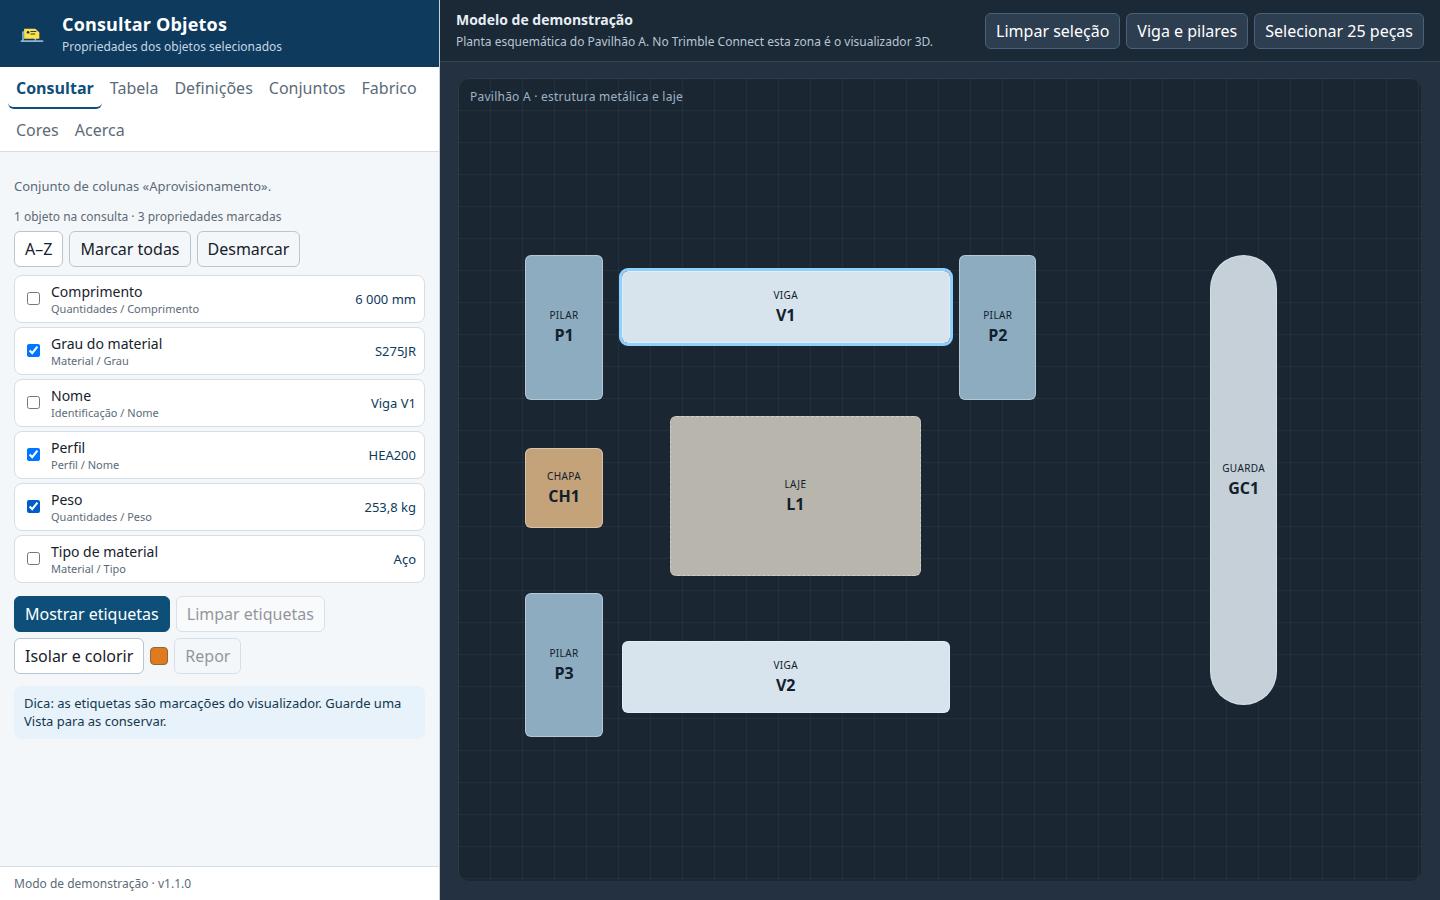
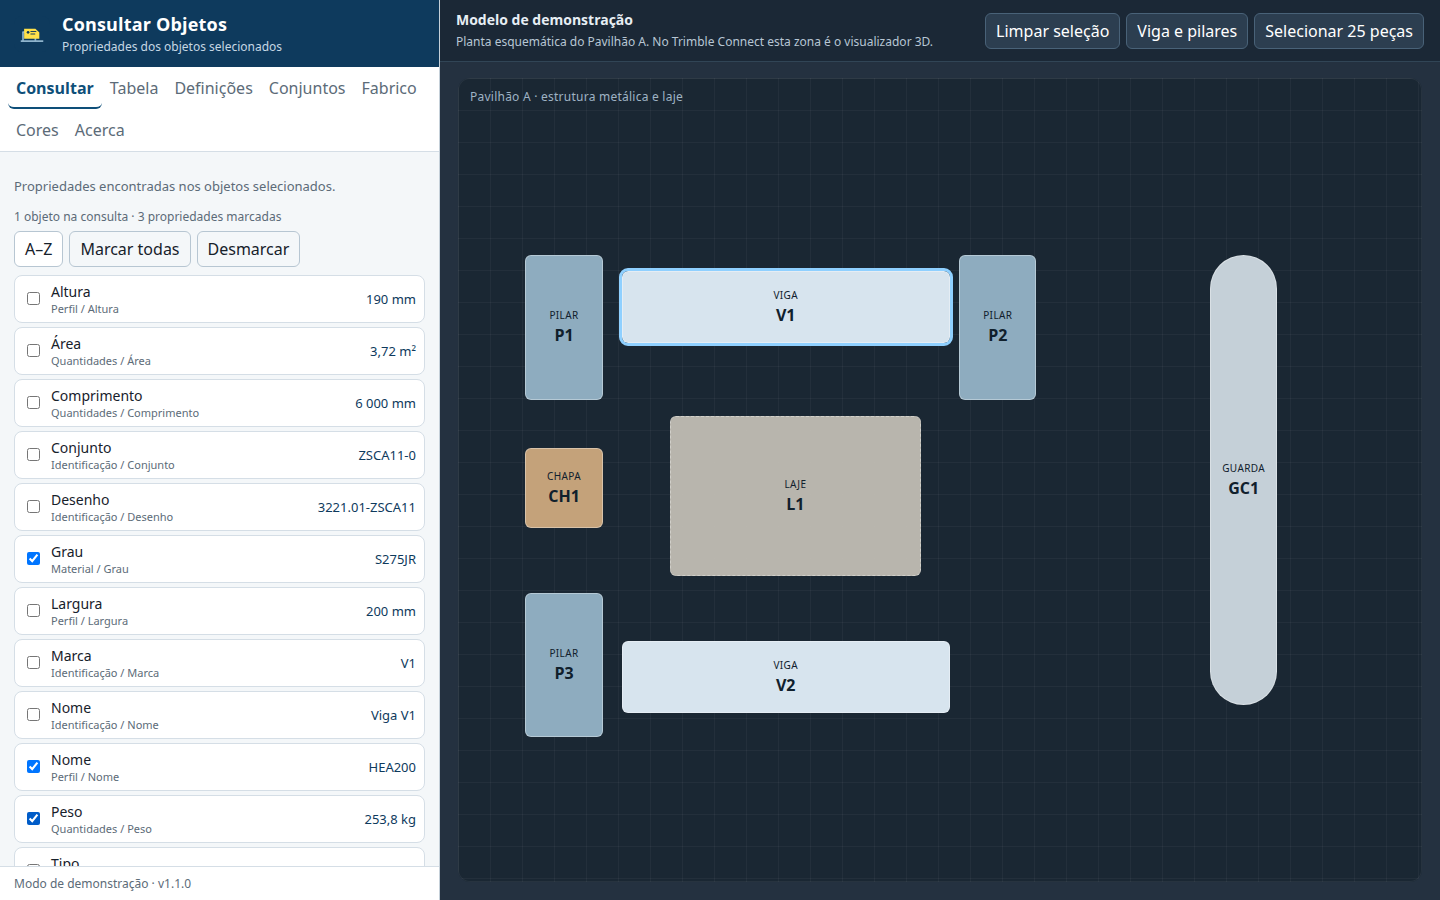
Start from the properties found on the objects.
The Data Table column set is no longer selected automatically. A choice is
kept only after the user picks it; a value stored by the previous version,
such as Default, falls back to Propriedades encontradas.

diff --git a/tests/e2e/demo.spec.ts b/tests/e2e/demo.spec.ts
@@ -8,7 +8,10 @@ test.beforeEach(async ({ page }) => {
 test("mostra o painel vazio e pede para selecionar objetos", async ({ page }) => {
   await expect(page.getByRole("heading", { name: "Consultar Objetos" })).toBeVisible();
   await expect(page.getByTestId("contagem")).toHaveText("Nenhum objeto na consulta");
-  await expect(page.getByTestId("origem")).toContainText("Aprovisionamento");
+  await expect(page.getByTestId("origem")).toContainText("Propriedades encontradas");
+  await page.getByRole("tab", { name: "Definições" }).click();
+  await expect(page.getByTestId("conjunto-colunas")).toHaveValue("");
+  await page.getByRole("tab", { name: "Consultar" }).click();
   await expect(page.getByText("Guarde uma Vista para as conservar.")).toBeVisible();
   await expect(page.getByTestId("mostrar-etiquetas")).toBeDisabled();
   await page.getByRole("tab", { name: "Definições" }).click();
@@ -51,7 +54,7 @@ test("coloca etiquetas na vertical e na horizontal, com ou sem unidades", async 
   await expect.poll(async () => label.textContent()).toBe("HEA200 | 253,8 kg");
 
   await page.getByTestId("mostrar-propriedade").check();
-  await expect.poll(async () => label.textContent()).toBe("Perfil: HEA200 | Peso: 253,8 kg");
+  await expect.poll(async () => label.textContent()).toBe("Nome: HEA200 | Peso: 253,8 kg");
   await page.getByTestId("mostrar-propriedade").uncheck();
 
   await page.getByTestId("mostrar-unidades").uncheck();
@@ -67,7 +70,7 @@ test("filtra a tabela e exporta CSV compatível com o Excel", async ({ page }) =
   await page.getByRole("button", { name: "Pilar P1" }).click({ modifiers: ["Control"] });
   await page.getByRole("tab", { name: "Tabela" }).click();
   await page.getByTestId("pesquisa").fill("s275");
-  await expect(page.getByRole("columnheader", { name: /Grau do material/ })).toBeVisible();
+  await expect(page.getByRole("columnheader", { name: "Grau" })).toBeVisible();
   await expect(page.getByRole("columnheader", { name: "Perfil" })).toHaveCount(0);
   await expect(page.getByTestId("linha-total")).toContainText("2 peças");
 
@@ -78,7 +81,7 @@ test("filtra a tabela e exporta CSV compatível com o Excel", async ({ page }) =
   const path = await download.path();
   const csv = fs.readFileSync(path!, "utf8");
   expect(csv.charCodeAt(0)).toBe(0xfeff);
-  expect(csv).toContain("Peça;Grau do material\r\n");
+  expect(csv).toContain("Peça;Grau\r\n");
   expect(csv).toContain("S275JR");
   expect(csv).toContain("Total · 2 peças");
   expect(csv).not.toContain("HEA200");
@@ -108,6 +111,7 @@ test("avisa quando a seleção passa de 20 objetos", async ({ page }) => {
 });
 
 test("guarda e aplica conjuntos de propriedades neste navegador", async ({ page }) => {
+  await page.getByRole("button", { name: "Viga V1" }).click();
   await page.getByRole("tab", { name: "Conjuntos" }).click();
   await expect(page.getByRole("heading", { name: "Aço: perfil, material, peso" })).toBeVisible();
   await page.getByRole("button", { name: "Aplicar" }).click();
@@ -134,6 +138,19 @@ test("usa as propriedades do modelo quando a tabela de dados não existe", async
   await expect(page.getByTestId("origem")).toContainText("não está disponível");
   await expect(page.getByRole("checkbox", { name: "Perfil / Nome" })).toBeVisible();
   await expect(page.getByRole("checkbox", { name: "Perfil / Altura" })).toBeVisible();
+});
+
+test("ignora um conjunto de colunas gravado automaticamente", async ({ page }) => {
+  await page.evaluate(() => {
+    localStorage.setItem("tc-consultar-objetos:conjunto-colunas", JSON.stringify("Default"));
+  });
+  await page.reload();
+  await page.getByRole("tab", { name: "Definições" }).click();
+  await expect(page.getByTestId("conjunto-colunas")).toHaveValue("");
+  await page.getByTestId("conjunto-colunas").selectOption("Aprovisionamento");
+  await page.reload();
+  await page.getByRole("tab", { name: "Definições" }).click();
+  await expect(page.getByTestId("conjunto-colunas")).toHaveValue("Aprovisionamento");
 });
 
 test("troca o conjunto de colunas", async ({ page }) => {

diff --git a/src/ui/app.ts b/src/ui/app.ts
@@ -12,7 +12,7 @@ import {
   sameKeys,
   sortItems,
 } from "../domain/properties";
-import { loadSets, loadSettings, saveSets, saveSettings, upsertSet } from "../domain/storage";
+import { loadColumnSetChoice, loadSets, loadSettings, saveColumnSetChoice, saveSets, saveSettings, upsertSet } from "../domain/storage";
 import {
   APP_VERSION,
   MAX_OBJECTS,
@@ -107,10 +107,11 @@ export async function startApp(root: HTMLElement, host: ViewerHost): Promise<voi
   if (columnInfo && columnInfo.sets.length > 0) {
     ui.columnSets = columnInfo.sets;
     ui.dataTableAvailable = true;
-    ui.activeSetName = columnInfo.sets.some((set) => set.name === columnInfo.activeName)
-      ? columnInfo.activeName ?? ""
-      : columnInfo.sets[0].name;
   }
+  const savedColumnSet = loadColumnSetChoice(localStorage);
+  ui.activeSetName = savedColumnSet !== null && (savedColumnSet === "" || ui.columnSets.some((set) => set.name === savedColumnSet))
+    ? savedColumnSet
+    : "";
 
   root.innerHTML = shell(host);
   bind(root, host, ui);
@@ -317,8 +318,9 @@ export async function startApp(root: HTMLElement, host: ViewerHost): Promise<voi
           } else {
             state.dataTableAvailable = info.sets.length > 0;
             state.columnSets = info.sets;
-            if (info.activeName && info.sets.some((set) => set.name === info.activeName)) {
-              state.activeSetName = info.activeName;
+            if (state.activeSetName && !info.sets.some((set) => set.name === state.activeSetName)) {
+              state.activeSetName = "";
+              saveColumnSetChoice(localStorage, "");
             }
             state.feedback = "Conjuntos de colunas atualizados.";
           }
@@ -362,6 +364,7 @@ export async function startApp(root: HTMLElement, host: ViewerHost): Promise<voi
       }
       if (target.id === "column-set") {
         state.activeSetName = target.value;
+        saveColumnSetChoice(localStorage, state.activeSetName);
         sync();
         return;
       }

diff --git a/tests/unit/domain.test.ts b/tests/unit/domain.test.ts
@@ -16,7 +16,7 @@ import {
   sortItems,
   toInquiredObject,
 } from "../../src/domain/properties";
-import { loadSets, loadSettings, saveSets, upsertSet } from "../../src/domain/storage";
+import { loadColumnSetChoice, loadSets, loadSettings, saveColumnSetChoice, saveSets, upsertSet } from "../../src/domain/storage";
 import { PropertyType, type InquiredObject, type LabelSettings, type RawObject } from "../../src/domain/types";
 
 function memoryStore(initial?: Record<string, string>) {
@@ -232,6 +232,11 @@ describe("conjuntos guardados", () => {
     expect(legacy.showObjectName).toBe(false);
     expect(legacy.showPropertyName).toBe(false);
     expect(loadSettings(memoryStore({ "tc-consultar-objetos:definicoes": "{" })).labelColor).toBe("#ffe14a");
+    const memory = memoryStore();
+    expect(loadColumnSetChoice(memory)).toBeNull();
+    expect(loadColumnSetChoice(memoryStore({ "tc-consultar-objetos:conjunto-colunas": JSON.stringify("Default") }))).toBeNull();
+    saveColumnSetChoice(memory, "Aprovisionamento");
+    expect(loadColumnSetChoice(memory)).toBe("Aprovisionamento");
   });
 });
 

diff --git a/src/domain/storage.ts b/src/domain/storage.ts
@@ -20,6 +20,29 @@ function isSet(value: unknown): value is NamedPropertySet {
     && set.keys.every((key) => typeof key === "string");
 }
 
+export function loadColumnSetChoice(store: KeyValueStore): string | null {
+  const raw = store.getItem(STORAGE_KEYS.columnSet);
+  if (raw == null) return null;
+  try {
+    const parsed: unknown = JSON.parse(raw);
+    if (
+      parsed
+      && typeof parsed === "object"
+      && (parsed as { explicit?: unknown }).explicit === true
+      && typeof (parsed as { name?: unknown }).name === "string"
+    ) {
+      return (parsed as { name: string }).name;
+    }
+  } catch {
+    return null;
+  }
+  return null;
+}
+
+export function saveColumnSetChoice(store: KeyValueStore, name: string): void {
+  store.setItem(STORAGE_KEYS.columnSet, JSON.stringify({ explicit: true, name }));
+}
+
 export function loadSets(store: KeyValueStore): NamedPropertySet[] {
   const raw = store.getItem(STORAGE_KEYS.sets);
   if (raw == null) {

diff --git a/src/domain/types.ts b/src/domain/types.ts
@@ -130,6 +130,7 @@ export const TABLE_PAGE_SIZE = 100;
 export const STORAGE_KEYS = {
   sets: "tc-consultar-objetos:conjuntos",
   settings: "tc-consultar-objetos:definicoes",
+  columnSet: "tc-consultar-objetos:conjunto-colunas",
 } as const;
 
 export const DEFAULT_SETTINGS: LabelSettings = {

diff --git a/README.md b/README.md
@@ -12,7 +12,7 @@ Abra o modelo no visualizador 3D e escolha **Consultar Objetos** nas extensões.
 
 ### 1. Painel sem seleção
 
-O conjunto de colunas ativo da Tabela de dados aparece como lista. Enquanto não houver seleção, os botões de etiquetas e de isolamento ficam inativos.
+Por omissão a lista usa as propriedades encontradas nos objetos. Em Definições pode escolher um conjunto de colunas da Tabela de dados; essa escolha fica gravada. Enquanto não houver seleção, os botões de etiquetas e de isolamento ficam inativos.
 
 ![Painel sem objetos selecionados, com a lista do conjunto Aprovisionamento e a planta do Pavilhão A](docs/imagens/01-painel-vazio.png)
 
